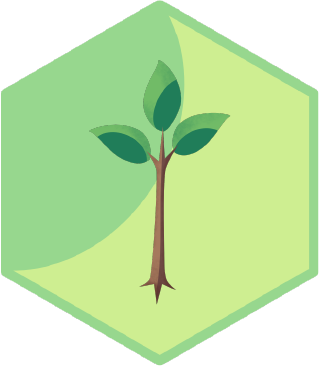
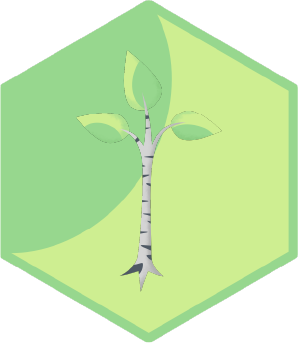
Setzlinge

diff --git a/scripts/forest_spirits.js b/scripts/forest_spirits.js
@@ -3,6 +3,17 @@ const fieldContainer = document.getElementById("field-container");
 const inventarElement = document.getElementById("inventar-container");
 const inventarWaterCounter = document.getElementById("inventar-water");
 const inventarSunCounter = document.getElementById("inventar-sun");
+const inventarSeedlingCounter = document.getElementById("inventar-seedling");
+
+const progressBarWater = document.getElementById("progress-bar-water");
+const progressBarSun = document.getElementById("progress-bar-sun");
+const progressBarProgress = document.getElementById("progress-bar-progress");
+const fieldContextInfo = document.getElementById("field-context-info");
+fieldContextInfo.style.display = "none";
+
+const GAME_CONFIG = {
+    resourceAdmissionRate: 10
+};
 
 const WIDTH_TO_HEIGHT = 829.0 / 718.0;
 const FIELD_WIDTH = 100.0;
@@ -18,7 +29,8 @@ let gameState = {
     isWater: false,
     inventar: {
         sun: 0,
-        water: 0
+        water: 0,
+        seedling: 3
     }
 };
 let drag = undefined;
@@ -31,33 +43,69 @@ fieldContainer.addEventListener("mousemove", function(event) {
 });
 
 fieldContainer.addEventListener("click", function(event) {
+    fieldContextInfo.style.display = "none";
     const coordinate = pointToCoordinate(toPoint(event.x, event.y));
+    if (!coordinate) {
+        if (drag) {
+            fieldContainer.removeChild(drag.element);
+        }
+        return;
+    }
     if (drag) {
-        
         if (drag.type === "sun") {
             reduceInventarSun();
-            fields[coordinate.row][coordinate.column].sun++;         
-        }
-        if (drag.type === "water") {
-
+            fields[coordinate.row][coordinate.column].sun += 50;
+            updateFieldType(coordinate);         
+        } else if (drag.type === "water") {
             reduceInventarWater();
-            fields[coordinate.row][coordinate.column].water++;
+            fields[coordinate.row][coordinate.column].water += 50;
+            updateFieldType(coordinate);   
+        } else if (drag.type === "seedling" && fields[coordinate.row][coordinate.column].type === "field-ripe") {
+            reduceInventarSeedling();
+            updateField(coordinate, "field-seedling");
         }
 
-        if (fields[coordinate.row][coordinate.column].water > 0 && fields[coordinate.row][coordinate.column].sun > 0) {
-            const type = fields[coordinate.row][coordinate.column].type;
-            fields[coordinate.row][coordinate.column].sun--
-            fields[coordinate.row][coordinate.column].water--
-            if (type === "field-normal") {
-                updateField(coordinate, "field-half-ripe");
-            } else if (type === "field-half-ripe") {
-                updateField(coordinate, "field-ripe");
-            }            
-        }
         fieldContainer.removeChild(drag.element);
         drag = undefined;
+    } else if (isField(event.target)) {
+        progressBarSun.value = fields[coordinate.row][coordinate.column].sun;
+        progressBarWater.value = fields[coordinate.row][coordinate.column].water;
+        progressBarProgress.value = fields[coordinate.row][coordinate.column].progress;
+        fieldContextInfo.style.top = event.y + "px";
+        fieldContextInfo.style.left = event.x + "px";
+        fieldContextInfo.style.display = "block";
+    } else {
+
     }
 });
+
+function isField(element) {
+    const classes = element.classList;
+    for (let i=0;i<classes.length;i++) {
+        if (classes[i] === "field") {
+            return true;
+        }
+    }
+    return false;
+}
+
+function reduceInventarSeedling() {
+    gameState.inventar.seedling--;
+    inventarSeedlingCounter.innerText = gameState.inventar.seedling;
+}
+
+function updateFieldType(coordinate) {
+    if (fields[coordinate.row][coordinate.column].water > 0 && fields[coordinate.row][coordinate.column].sun > 0) {
+        const type = fields[coordinate.row][coordinate.column].type;
+        fields[coordinate.row][coordinate.column].sun -= 50;
+        fields[coordinate.row][coordinate.column].water -= 50;
+        if (type === "field-normal") {
+            updateField(coordinate, "field-half-ripe");
+        } else if (type === "field-half-ripe") {
+            updateField(coordinate, "field-ripe");
+        }            
+    }
+}
 
 document.getElementById("inventar-sun-container").addEventListener("click", function(event) {
     if (gameState.inventar.sun <= 0) {
@@ -65,14 +113,12 @@ document.getElementById("inventar-sun-container").addEventListener("click", func
     }
     let element = document.createElement("div");
     element.classList.add("sun");
-    element.style.position = "absolute";
+    element.classList.add("drag");
     element.style.top = event.y + "px";
     element.style.left = event.x + "px";
-    element.style.zIndex = 9999;
     drag = {
         element: element,
-        type: "sun",
-        isDragging: true
+        type: "sun"
     }
     fieldContainer.appendChild(element);
 });
@@ -83,14 +129,28 @@ document.getElementById("inventar-water-container").addEventListener("click", fu
     }
     let element = document.createElement("div");
     element.classList.add("water");
-    element.style.position = "absolute";
+    element.classList.add("drag");
     element.style.top = event.y + "px";
     element.style.left = event.x + "px";
-    element.style.zIndex = 9999;
     drag = {
         element: element,
-        type: "water",
-        isDragging: true
+        type: "water"
+    }
+    fieldContainer.appendChild(element);
+});
+
+document.getElementById("inventar-seedling-container").addEventListener("click", function(event) {
+    if (gameState.inventar.seedling <= 0) {
+        return;
+    }
+    let element = document.createElement("div");
+    element.classList.add("seedling");
+    element.classList.add("drag");
+    element.style.top = event.y + "px";
+    element.style.left = event.x + "px";
+    drag = {
+        element: element,
+        type: "seedling"
     }
     fieldContainer.appendChild(element);
 });
@@ -120,7 +180,19 @@ async function gameLoop() {
 
 function update() {
     gameState.isSun = lastGameState.isSun || Math.random() < 1;
-    gameState.isWater = lastGameState.isWater || Math.random() < 0.5;
+    gameState.isWater = lastGameState.isWater || Math.random() < 1;
+    for (let i=0;i<fields.length;i++) {
+        for (let j=0;j<fields[i].length;j++) {
+            if (fields[i][j].type === "field-seedling") {
+                if (fields[i][j].sun >= 100 && fields[i][j].water >= 100) {
+                    fields[i][j].progress = Math.min(fields[i][j].progress + GAME_CONFIG.resourceAdmissionRate, 100);
+                } else {
+                    fields[i][j].sun = Math.min(fields[i][j].sun + GAME_CONFIG.resourceAdmissionRate, 100);
+                    fields[i][j].water = Math.min(fields[i][j].water + GAME_CONFIG.resourceAdmissionRate, 100);
+                }
+            }
+        }
+    }
 }
 
 function Sleep(milliseconds) {
@@ -129,10 +201,12 @@ function Sleep(milliseconds) {
 
 function redraw() {
     if (gameState.isSun && !lastGameState.isSun) {
+        console.log("hello");
         let point = coordinateToPoint(toCoordinate(FIELD_ROWS, FIELD_COLUMNS));
         point = toPoint(Math.random() * point.x, Math.random() * point.y);
         let temp = document.createElement("div");
         temp.classList.add("sun");
+        temp.classList.add("resource");
         temp.id = "sun";
         temp.style.top = point.y + "px";
         temp.style.left = point.x + "px";
@@ -144,11 +218,17 @@ function redraw() {
         point = toPoint(Math.random() * point.x, Math.random() * point.y);
         let temp = document.createElement("div");
         temp.classList.add("water");
+        temp.classList.add("resource");
         temp.id = "water";
         temp.style.top = point.y + "px";
         temp.style.left = point.x + "px";
         temp.addEventListener("click", collectWater);
         fieldContainer.appendChild(temp);
+    }
+    for (let i=0;i<fields.length;i++) {
+        for (let j=0;j<fields[i].length;j++) {
+            updateField(toCoordinate(i, j), fields[i][j].type);
+        }
     }
 }
 
@@ -174,6 +254,7 @@ function initField() {
                 element: undefined,
                 sun: 0,
                 water: 0,
+                progress: 0,
                 type: "field-normal"
             };
             updateField(toCoordinate(i, j), "field-normal");

diff --git a/css/main.css b/css/main.css
@@ -21,8 +21,17 @@
     right: 0;
 }
 
-#field-container div {
+#field-container div, #field-context-info {
     position:absolute;
+}
+
+#field-context-info {
+    z-index: 100;
+    background-color: beige;
+    border-radius: 20px;
+    border-top-left-radius: 0;
+    border: 3px solid brown;
+    padding: 20px;
 }
 
 #inventar-container, #game-information-container {
@@ -60,9 +69,20 @@
     top: 10vh;
 }
 
+.drag {
+    z-index: 9999;
+    position: absolute;
+}
+
+.resource {
+    z-index: 100;
+    position: absolute;
+}
+
 .field {
     height: 115px;
     width: 100px;
+    z-index: 90;
     background-size: 100px 115px;
 }
 
@@ -90,4 +110,15 @@
     height: 125px;
     background-size: 80px 125px;
     background-image: url("../img/wasser.png");
+}
+
+.seedling {
+    width: 60px;
+    height: 100px;
+    background-size: 60px 100px;
+    background-image: url("../img/seedling.png");
+}
+
+.field-seedling {
+    background-image: url("../img/field_seedling.png");
 }

diff --git a/index.html b/index.html
@@ -19,8 +19,19 @@
             <div id="inventar-sun-container" class="inventar-item sun">
                 <h2>x </h2> <h2 id="inventar-sun">0</h2>
             </div>
+            <div id="inventar-seedling-container" class="inventar-item seedling">
+                <h2>x </h2> <h2 id="inventar-seedling">3</h2>
+            </div>
         </div>
         <div id="game-information-container"></div>
+    </div>
+    <div id="field-context-info">
+        <h6>Sonne</h6>
+        <progress id="progress-bar-sun" max="100"></progress>
+        <h6>Wasser</h6>
+        <progress id="progress-bar-water" max="100"></progress>
+        <h6>Fortschritt</h6>
+        <progress id="progress-bar-progress" max="100"></progress>
     </div>
 </body>
 </html>
